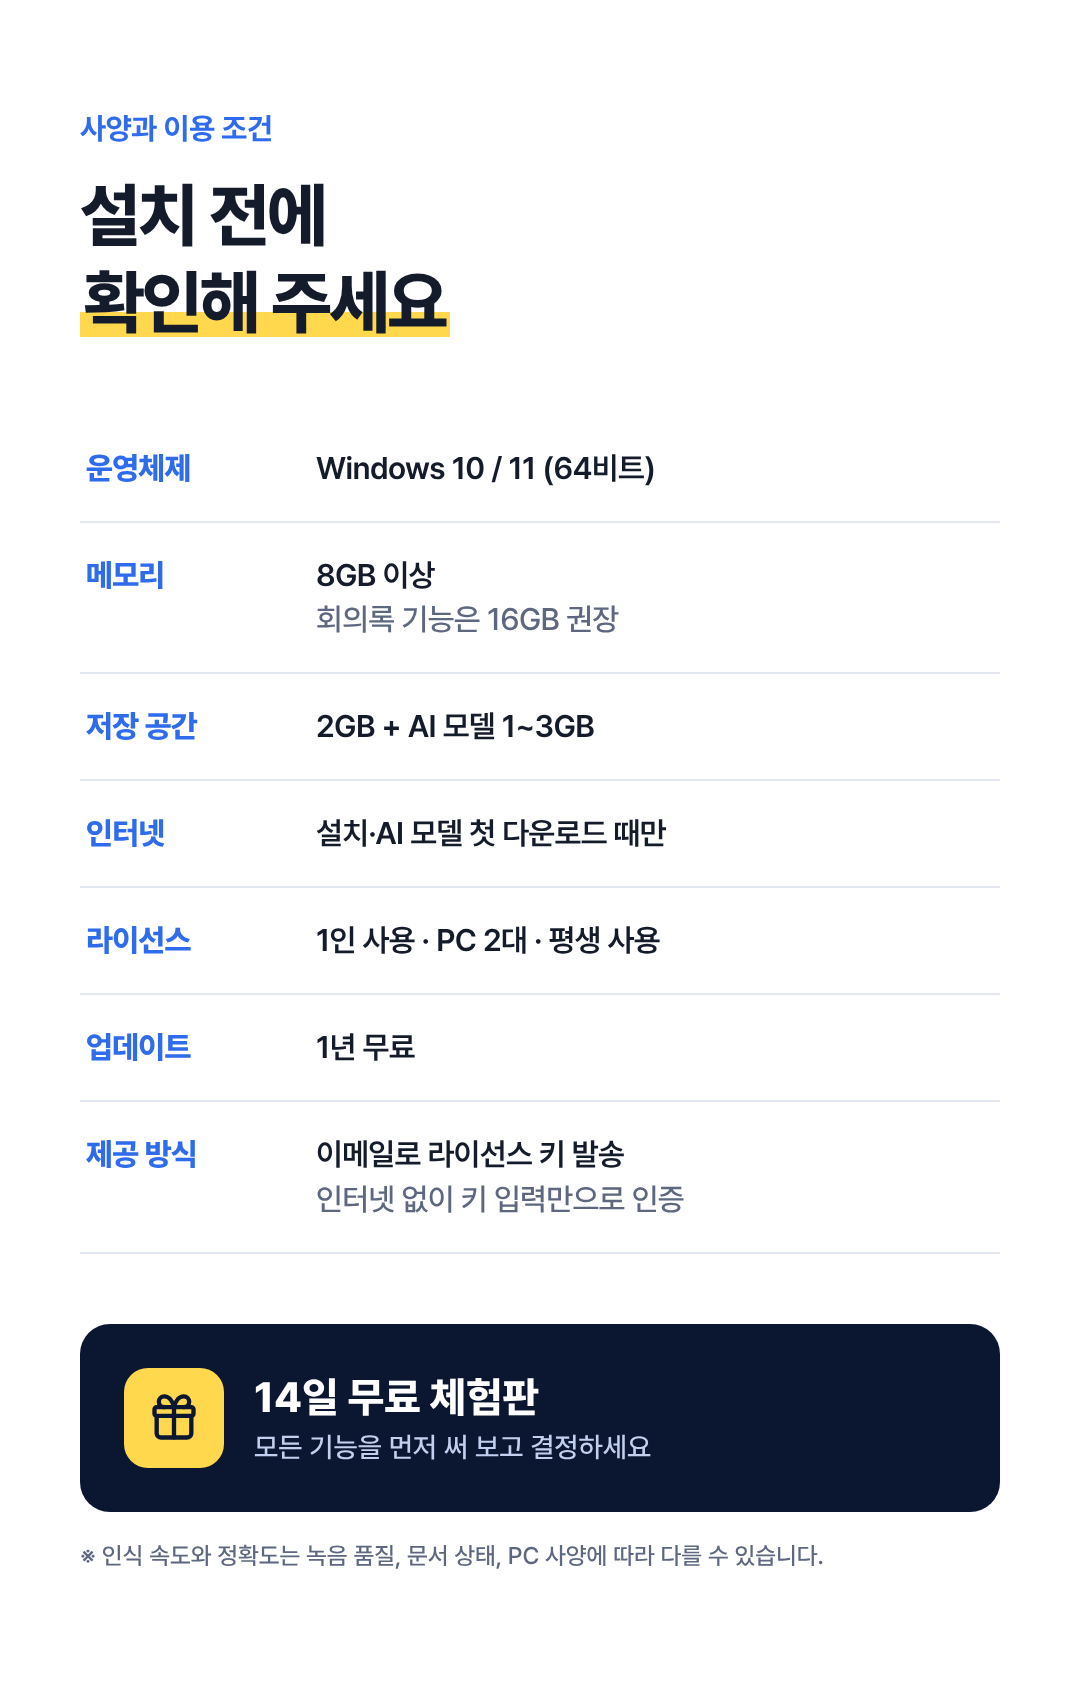
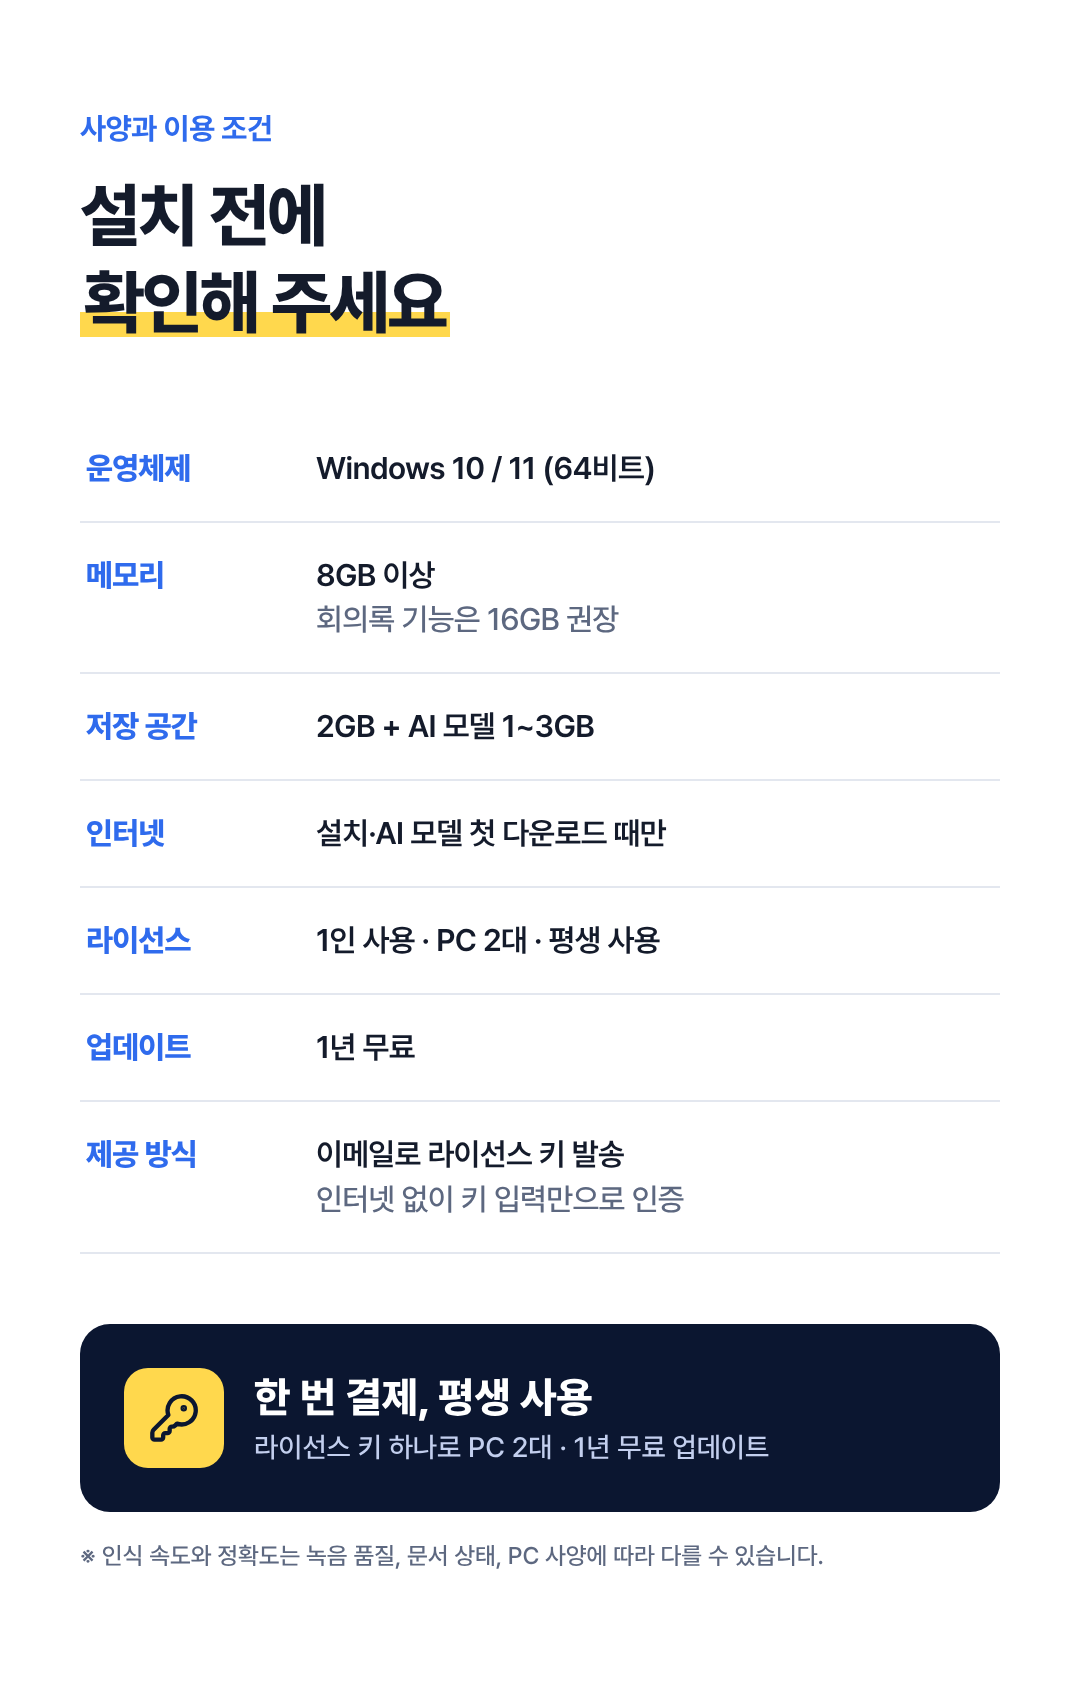
무료 체험판 없앤 내용 반영: 원고·환불 문구·스토리 이미지, 시연 영상 대기 시간 줄이기 [demo]
- 원고와 FAQ에서 14일 체험판 문구를 시연 영상·상세 사양 안내로 바꿈
- 환불 정책: 체험판 없이 가는 근거(시행령 제21조의2)와 보수적 대안 문구를 함께 적음
- 스토리 12번 이미지의 '14일 무료 체험판' 칸을 '한 번 결제, 평생 사용'으로
- 회의록 영상: 받아쓰기 기다리는 구간은 3초만 남기고 잘라 내고 자막에 알림

Claude-Session: https://claude.ai/code/session_01PHtks8W8ASeortZPGzvKET

Changed region(s): [[0.2444, 0.8024, 0.7028, 0.8641], [0.1222, 0.8332, 0.1833, 0.8641]]

diff --git a/tools/wadiz/story.html b/tools/wadiz/story.html
@@ -465,7 +465,7 @@ h3 { font-size: 40px; font-weight: 800; letter-spacing: -0.02em; line-height: 1.
     <tr><td>업데이트</td><td>1년 무료</td></tr>
     <tr><td>제공 방식</td><td>이메일로 라이선스 키 발송<br><span style="color:var(--sub); font-weight:500">인터넷 없이 키 입력만으로 인증</span></td></tr>
   </table>
-  <div class="trial mt-l"><span class="icon"><i data-icon="gift"></i></span><div><b>14일 무료 체험판</b><span>모든 기능을 먼저 써 보고 결정하세요</span></div></div>
+  <div class="trial mt-l"><span class="icon"><i data-icon="key-round"></i></span><div><b>한 번 결제, 평생 사용</b><span>라이선스 키 하나로 PC 2대 · 1년 무료 업데이트</span></div></div>
   <p class="foot-note">※ 인식 속도와 정확도는 녹음 품질, 문서 상태, PC 사양에 따라 다를 수 있습니다.</p>
 </section>
 

diff --git a/docs/WADIZ.md b/docs/WADIZ.md
@@ -113,7 +113,7 @@
   - 나눌 수 있는 콘텐츠라면, 제공이 개시되지 않은 부분은 제한할 수 없다.
 - **제17조 6항**: 철회를 제한하려면 다음 조치가 필요하다. 하지 않으면 제한할 수 없다.
   - 철회 불가 사실을 잘 보이게 표시
-  - **시험 사용 상품(체험판)** 제공 같은 조치
+  - **시험 사용 상품(체험판)** 제공 같은 조치 (시행령 제21조의2: 일부 이용·기간 한정 이용·체험판, 이것들이 곤란하면 콘텐츠 정보 제공)
 - **제17조 3항**: 표시·광고와 다르게 제공되면 기간 안에 철회할 수 있다. 제2항(제공 개시)과 상관없다.
   - 기간: 제공받은 날부터 3개월, 그 사실을 안 날부터 30일
   - 그래서 **아직 없는 기능은 반드시 '예정'으로 표시**한다.
@@ -124,14 +124,16 @@
 라이선스가 오프라인 활성화라서, 구매자가 키를 실제로 썼는지 판매자가 확인할 수 없다. 그래서 **키를 열람하는 순간**을 제공 개시로 정하고 기록을 남긴다.
 1. 이메일에는 키 대신 "키 확인하기" 링크를 보낸다.
 2. 링크 페이지에 아래 문구와 동의 버튼을 두고, 누른 시각을 기록한다(구글 폼·노션·간단한 페이지).
-   - 문구: "키를 확인하면 디지털 콘텐츠 제공이 시작되어 청약철회가 제한됩니다(전자상거래법 제17조 제2항 제5호). 14일 체험판으로 먼저 확인해 주세요."
+   - 문구: "키를 확인하면 디지털 콘텐츠 제공이 시작되어 청약철회가 제한됩니다(전자상거래법 제17조 제2항 제5호). 시연 영상과 상세 사양으로 먼저 확인해 주세요."
 3. 앱의 라이선스 입력 화면에도 같은 고지를 띄운다(앱에 반영됨).
-4. 체험판은 **펀딩 기간 중에 누구나** 내려받을 수 있게 공개한다.
+4. **무료 체험판은 두지 않는다.** 대신 시연 영상 3개와 상세 사양·지원 형식을 스토리에 자세히 적는다(시행령 제21조의2 제4호 '콘텐츠 정보 제공').
+   - 주의: 이 방식은 체험판을 줄 때보다 철회 제한 근거가 약하다. 와디즈 PD가 바꾸라고 하거나 분쟁이 생기면 아래 '보수적 문구'로 바꾼다.
+   - 보수적 문구: "키를 받은 날부터 7일 안에는 키를 등록했더라도 환불해 드려요. 환불하면 그 키는 사용 중지 목록에 올라가요." (앱이 오프라인이라 실제로 막을 수는 없어서, 악용 위험은 판매자가 진다)
 
 ### 와디즈 입력용 문구
 1. 펀딩 기간 중에는 와디즈에서 언제든 결제를 취소할 수 있어요.
 2. 펀딩 종료 후 라이선스 키를 **확인(열람)하기 전**이라면 7일 안에 전액 환불해 드려요.
-3. 키를 확인하면 디지털 콘텐츠 제공이 시작된 것으로 보고 청약철회가 제한돼요(전자상거래법 제17조 제2항 제5호). 구매 전에 **14일 무료 체험판**으로 미리 써볼 수 있어요.
+3. 키를 확인하면 디지털 콘텐츠 제공이 시작된 것으로 보고 청약철회가 제한돼요(전자상거래법 제17조 제2항 제5호). 구매 전에 **시연 영상과 상세 사양**으로 기능을 확인해 주세요.
 4. 2인·5인 팩은 **확인하지 않은 키 수만큼** 환불해 드려요.
 5. 프로그램이 소개 내용과 다르거나 결함으로 핵심 기능을 쓸 수 없는데 14일 안에 고치지 못하면, 키 확인 여부와 상관없이 환불해 드려요.
 6. 제공 예정일보다 30일 넘게 늦어지면 원하는 서포터에게 전액 환불해 드려요.
@@ -145,7 +147,7 @@
   - 코어 3가지와 비서 기능을 먼저 제공하고, 나머지는 업데이트로 순차 제공한다.
   - 지연 시 매주 새소식으로 진행 상황을 공개한다.
 - **사양에 따른 속도 차이**: 저사양 PC에서는 회의록 변환이 느릴 수 있다.
-  - 빠른 모델/정확한 모델을 고를 수 있게 하고, 체험판으로 미리 확인하도록 안내한다.
+  - 빠른 모델/정확한 모델을 고를 수 있게 하고, 시연 영상과 권장 사양으로 미리 안내한다.
 - **인식 오류**: 개인정보 탐지에서 놓치거나 잘못 가리는 경우가 있을 수 있다.
   - 결과 미리보기와 항목별 개수를 보여주고, 사람이 최종 확인하도록 안내한다.
 - **운영체제 업데이트 호환성**: 문제가 생기면 무료 업데이트로 대응한다.
@@ -206,7 +208,7 @@
 
 ## 10. 오픈 전 체크리스트
 
-- [ ] 체험판 다운로드 페이지: 공개 다운로드는 내림 (체험판 없이 갈지 결정 필요, 환불 정책에 영향)
+- [x] 무료 체험판 없음 (공개 다운로드 내림). 환불 문구는 6번 '보수적 문구'도 함께 검토
 - [x] 시연 영상 3개 (회의록 37초 / 마스킹 20초 / 이미지 14초): `docs/wadiz/videos/`
 - [ ] 서명 키 새로 만들기: `python tools/license_gen.py keygen` (개인키는 오프라인 보관)
 - [ ] 서포터 명단 CSV → `license_gen.py batch` 로 키 일괄 발급
